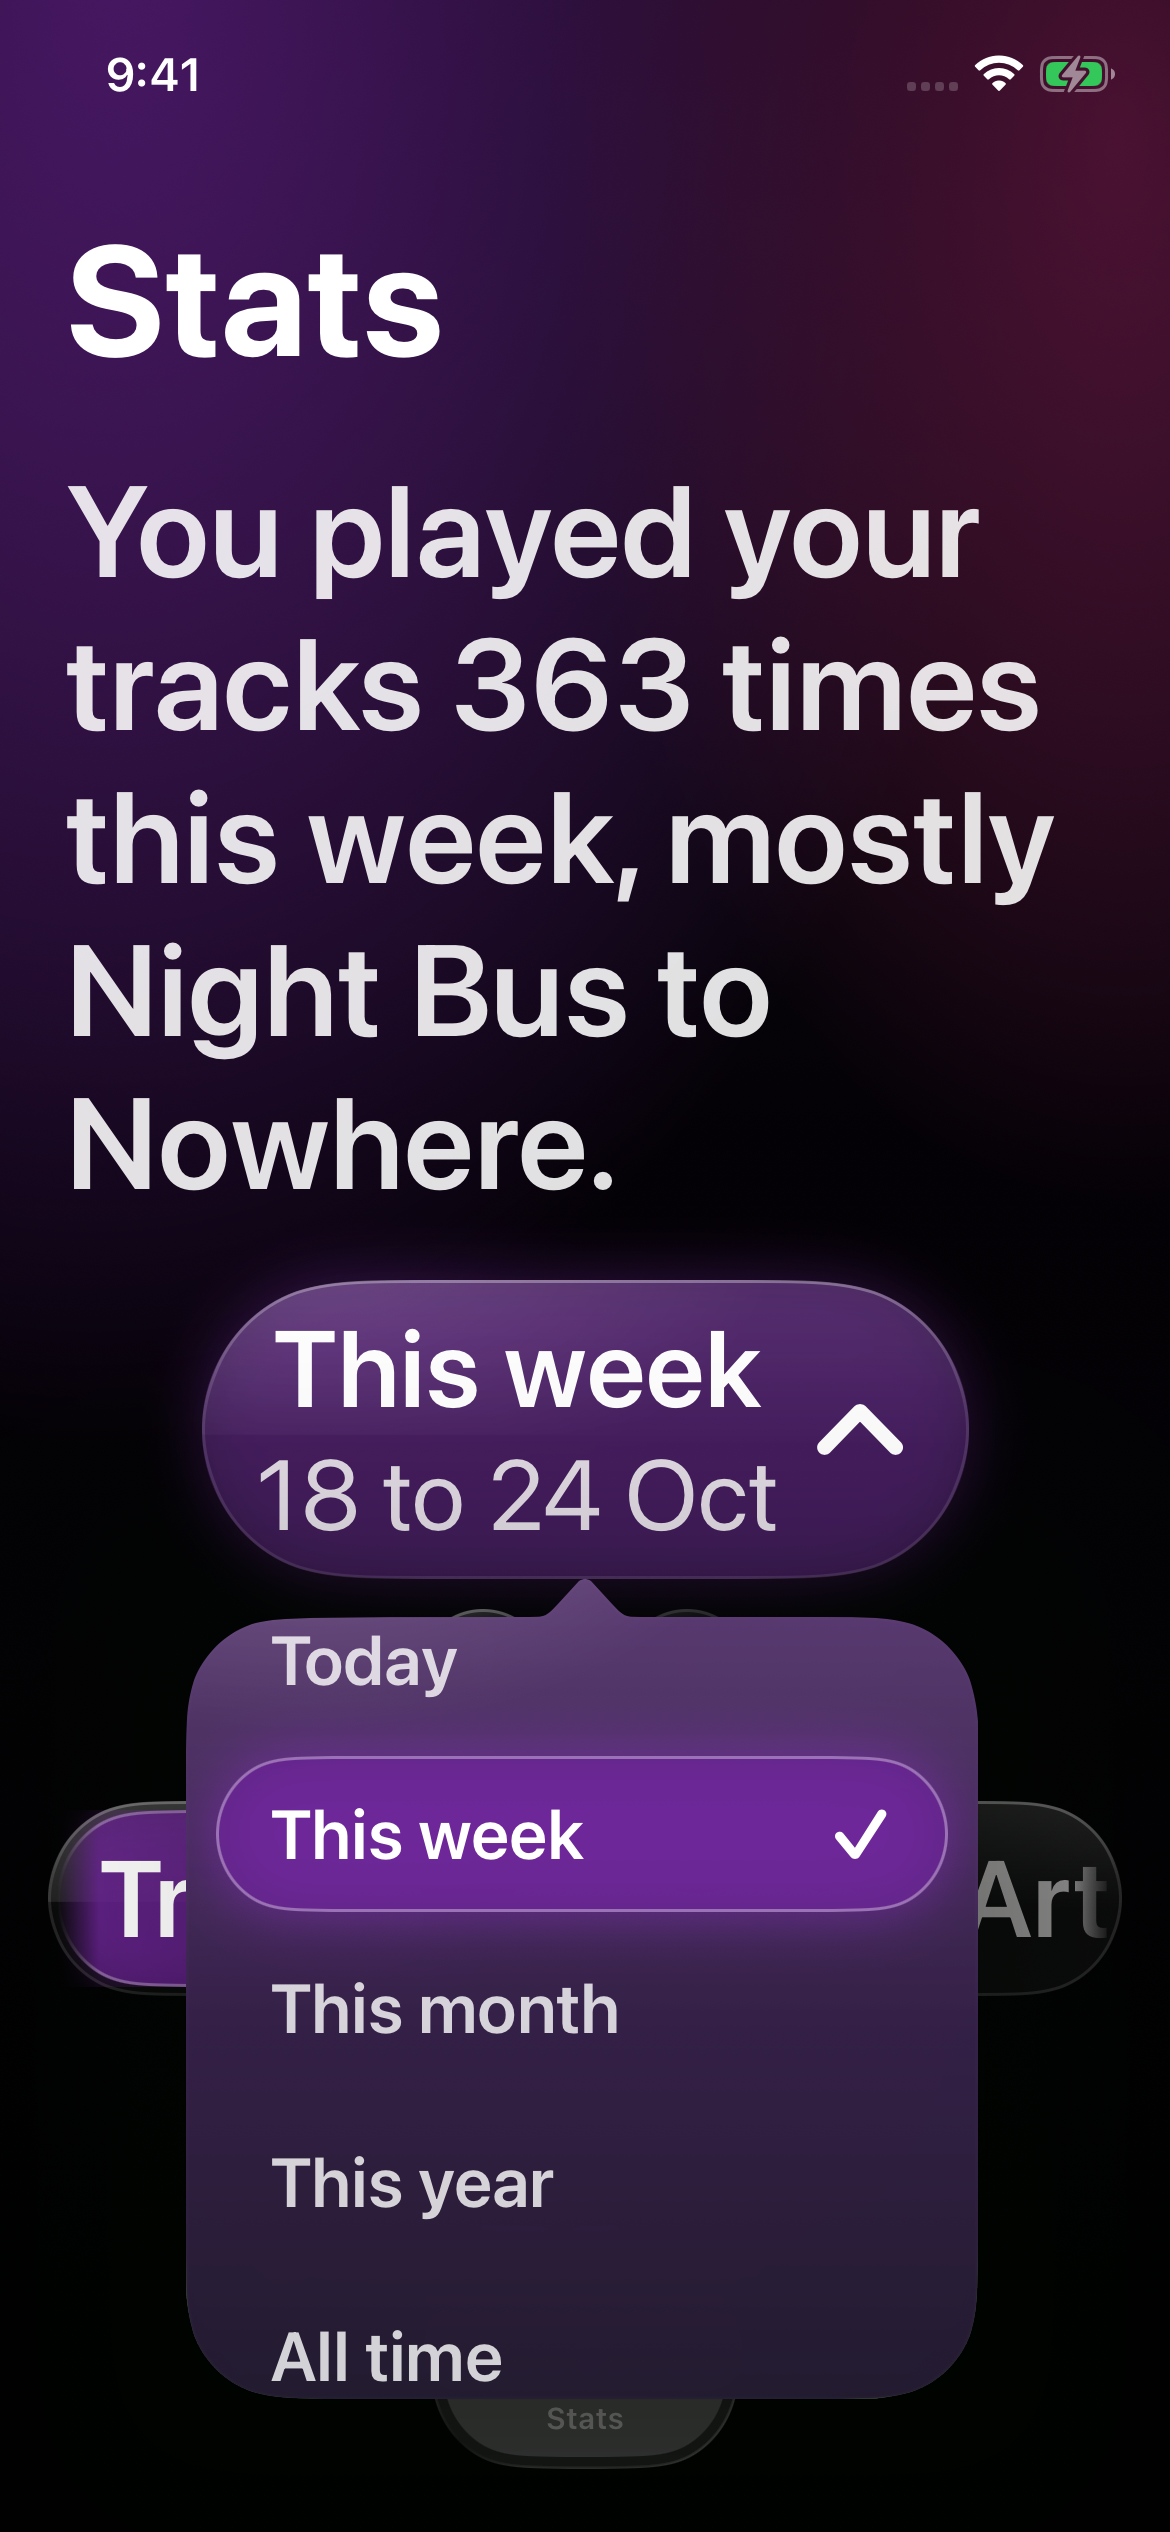
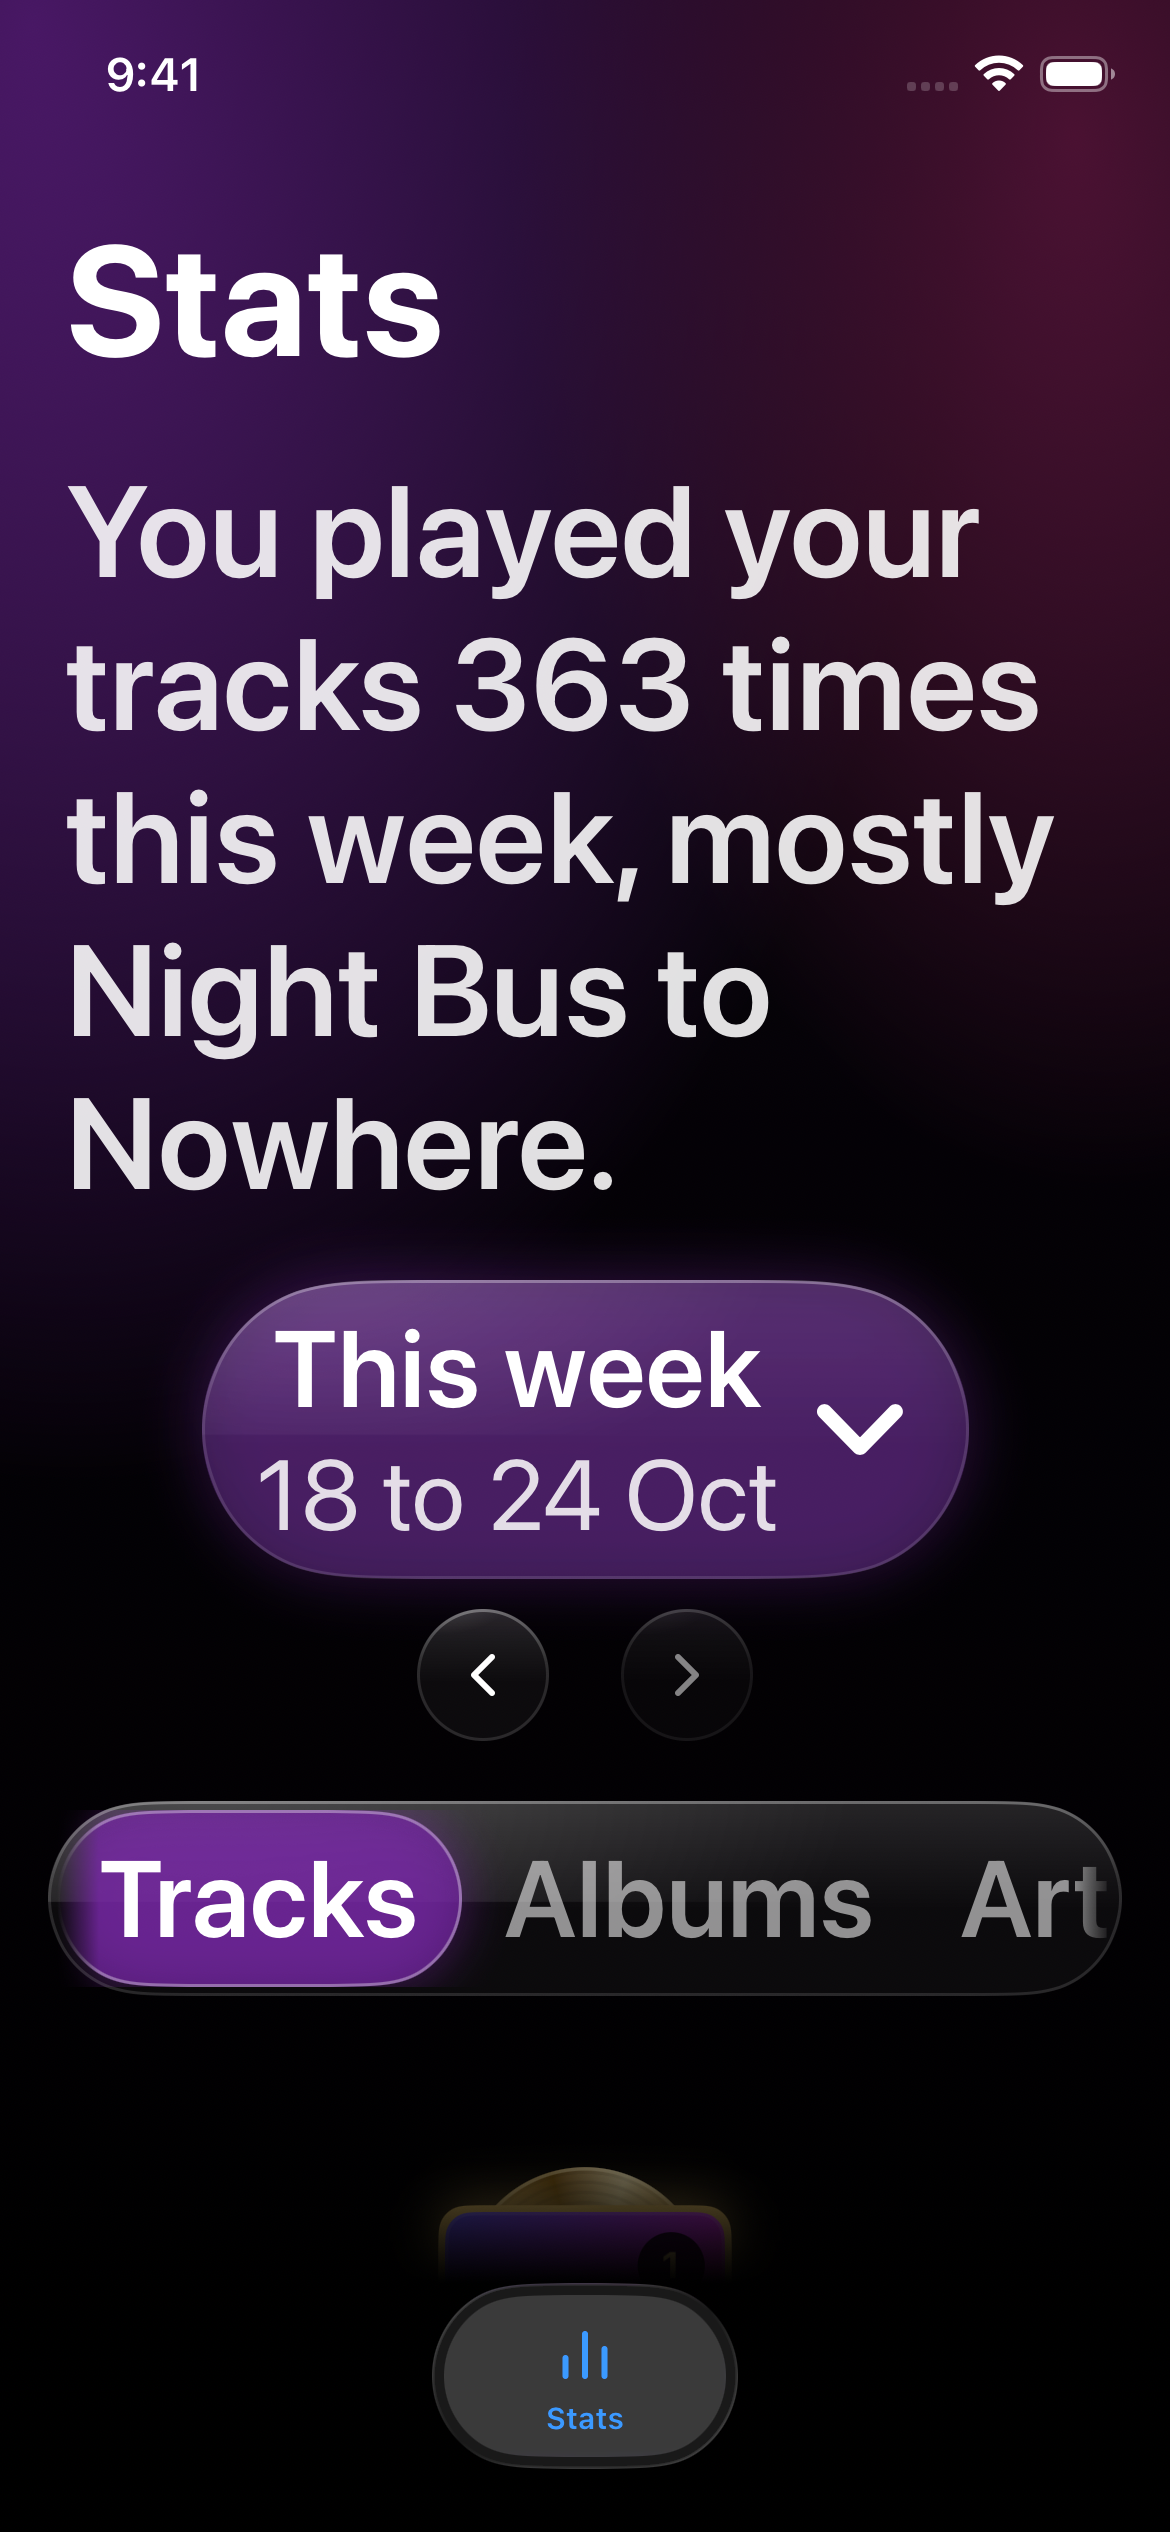
Stats: accessibility-size period sheet; grid follows the sort and shows minutes (#367)
Claude-Session: https://claude.ai/code/session_01NeXGzQ5gYG6DzPD3bPBBBq

Changed region(s): [[0.0923, 0.624, 0.8923, 0.9672], [0.7077, 0.5304, 0.7692, 0.5928], [0.8923, 0.0, 0.9538, 0.0312]]

diff --git a/apps/ios/Locally/Views/Stats/StatsPeriodPill.swift b/apps/ios/Locally/Views/Stats/StatsPeriodPill.swift
@@ -12,7 +12,7 @@ struct StatsPeriodPill: View {
     let onSelect: (StatsPeriodKind) -> Void
 
     @Environment(\.accessibilityReduceMotion) private var reduceMotion
-    /// A pop-up is its own hierarchy: it takes the page's text size, held at the largest non-accessibility size so the five rows fit the screen.
+    /// From the accessibility sizes up the choices open as a sheet, not the popover.
     @Environment(\.dynamicTypeSize) private var typeSize
 
 
@@ -58,15 +58,57 @@ struct StatsPeriodPill: View {
         .accessibilityElement(children: .ignore)
         .accessibilityLabel("\(Copy.Stats.periodPillLabel), \(title), \(detail)")
         .accessibilityAddTraits(.isButton)
-        .popover(isPresented: $isPresented, attachmentAnchor: .rect(.bounds), arrowEdge: .top) {
-            StatsPeriodPopup(current: current, tint: tint) { kind in
-                withAnimation(reduceMotion ? nil : Theme.StatsPopup.ease) { isPresented = false }
-                onSelect(kind)
-            }
-            .dynamicTypeSize(min(typeSize, .xxxLarge))
-            .presentationCompactAdaptation(.popover)
-            .presentationBackground { StatsPopupBackground(tint: tint) }
+        .popover(isPresented: typeSize.isAccessibilitySize ? .constant(false) : $isPresented, attachmentAnchor: .rect(.bounds), arrowEdge: .top) {
+            StatsPeriodPopup(current: current, tint: tint) { choose($0) }
+                .presentationCompactAdaptation(.popover)
+                .presentationBackground { StatsPopupBackground(tint: tint) }
         }
+        .sheet(isPresented: typeSize.isAccessibilitySize ? $isPresented : .constant(false)) {
+            StatsPeriodSheet(current: current, tint: tint, onClose: { isPresented = false }) { choose($0) }
+                .presentationDetents([.medium, .large])
+                .presentationBackground { StatsPopupBackground(tint: tint) }
+        }
+    }
+
+    private func choose(_ kind: StatsPeriodKind) {
+        withAnimation(reduceMotion ? nil : Theme.StatsPopup.ease) { isPresented = false }
+        onSelect(kind)
+    }
+}
+
+/// At accessibility text sizes the choices open as a sheet: the same large glass rows, scrollable.
+struct StatsPeriodSheet: View {
+    let current: StatsPeriodKind
+    let tint: Color
+    let onClose: () -> Void
+    let onSelect: (StatsPeriodKind) -> Void
+
+    var body: some View {
+        ScrollView {
+            VStack(spacing: 6) {
+                ForEach(Copy.Stats.periodOptions, id: \.kind) { option in
+                    StatsPeriodRow(label: option.label, chosen: option.kind == current, tint: tint) { onSelect(option.kind) }
+                }
+            }
+            .padding(.horizontal, 16)
+            .padding(.top, 56)
+            .padding(.bottom, 24)
+        }
+        .overlay(alignment: .topTrailing) {
+            Button(action: onClose) {
+                Image(systemName: "xmark")
+                    .font(.system(.title3, weight: .bold))
+                    .foregroundStyle(Color.red)
+                    .frame(width: Theme.Stats.minTarget, height: Theme.Stats.minTarget)
+                    .contentShape(Rectangle())
+            }
+            .buttonStyle(.plain)
+            .accessibilityLabel("Close")
+            .padding(8)
+        }
+        .accessibilityElement(children: .contain)
+        .accessibilityLabel(Copy.Stats.periodPopupLabel)
+        .sensoryFeedback(.selection, trigger: current)
     }
 }
 

diff --git a/apps/ios/Locally/Views/Stats/StatsRows.swift b/apps/ios/Locally/Views/Stats/StatsRows.swift
@@ -159,6 +159,7 @@ private struct StatsRow: View {
 /// the columns come from the room it has, so a tile is never under 72 pt.
 struct StatsSea: View {
     let items: [StatItem]
+    var sort: StatsSort = .plays
     /// The room the grid has.
     let width: CGFloat
     let round: Bool
@@ -188,7 +189,7 @@ struct StatsSea: View {
                     alignment: .leading, spacing: Theme.Stats.tileRowGap
                 ) {
                     ForEach(group) { item in
-                        StatsTile(item: item, tier: tier, round: round, owner: ownerOf(item), cache: cache) { onOpen(item) }
+                        StatsTile(item: item, tier: tier, round: round, sort: sort, owner: ownerOf(item), cache: cache) { onOpen(item) }
                     }
                 }
             }
@@ -202,11 +203,17 @@ private struct StatsTile: View {
     let item: StatItem
     let tier: Int
     let round: Bool
+    var sort: StatsSort = .plays
     let owner: UUID?
     let cache: StatsCoverCache
     let action: () -> Void
 
     @Environment(\.dynamicTypeSize) private var typeSize
+
+    /// Minutes under the minutes sort, plays otherwise; the same text is spoken.
+    private var figure: String {
+        sort == .minutes || tier != 2 ? Copy.Stats.figure(item, sort: sort) : Copy.Stats.formatCount(item.plays)
+    }
 
     private var nameFont: Font {
         tier == 0 ? .system(.footnote, weight: .semibold) : .system(.caption, weight: .semibold)
@@ -218,7 +225,7 @@ private struct StatsTile: View {
                 StatsCoverView(owner: owner, cache: cache, round: round, cornerRadius: 4)
                     .aspectRatio(1, contentMode: .fit)
                     .overlay { chip("\(item.rank)", corner: .topLeading) }
-                    .overlay { chip(tier == 2 ? Copy.Stats.formatCount(item.plays) : Copy.Stats.playsCount(item.plays), corner: .bottomTrailing) }
+                    .overlay { chip(figure, corner: .bottomTrailing) }
                     .shadow(color: .black.opacity(0.55), radius: 8, y: 6)
                 VStack(alignment: .leading, spacing: 1) {
                     Text(item.title)
@@ -238,7 +245,7 @@ private struct StatsTile: View {
         }
         .buttonStyle(.plain)
         .accessibilityElement(children: .ignore)
-        .accessibilityLabel("\(Copy.Stats.itemLabel(rank: item.rank, title: item.title, plays: item.plays)), \(item.subtitle)")
+        .accessibilityLabel("\(item.rank), \(item.title), \(Copy.Stats.figure(item, sort: sort)), \(item.subtitle)")
     }
 
     /// The rank or the plays over a cover: white on a dark pill. On a round cover the chips sit

diff --git a/apps/ios/Locally/Views/Components/StatsPopupGallery.swift b/apps/ios/Locally/Views/Components/StatsPopupGallery.swift
@@ -4,30 +4,31 @@ import SwiftUI
 /// #367: the Stats page with the period pill closed and open, and the minutes sort, over the
 /// same sample plays as `StatsGallery`.
 enum StatsPopupGallery {
-    static let names = ["stats-period-closed", "stats-period-open", "stats-sort-minutes", "stats-period-ax3"]
+    static let names = ["stats-period-closed", "stats-period-open", "stats-sort-minutes", "stats-period-ax3", "stats-period-sheet-ax5", "stats-grid-minutes"]
 
     @MainActor
     static func page(_ name: String) -> some View {
-        let open = name == "stats-period-open" || name == "stats-period-ax3"
-        let minutes = name == "stats-sort-minutes"
+        let open = name == "stats-period-open" || name == "stats-period-sheet-ax5"
+        let minutes = name == "stats-sort-minutes" || name == "stats-grid-minutes"
         return TabView {
-            view(open: open, minutes: minutes)
+            view(open: open, minutes: minutes, grid: name == "stats-grid-minutes")
                 .tabItem { Label(Copy.Stats.tabLabel, image: "Icon/Stats") }
         }
         .tint(Theme.accent)
         .environment(FolderStatus(isConnected: true))
         .environment(PurchaseStatus(isFullUnlocked: false))
         .environment(SyncStatus())
-        .dynamicTypeSize(name == "stats-period-ax3" ? .accessibility3 : .large)
+        .dynamicTypeSize(name == "stats-period-ax3" ? .accessibility3 : (name == "stats-period-sheet-ax5" ? .accessibility5 : .large))
     }
 
     @MainActor
-    private static func view(open: Bool, minutes: Bool) -> some View {
+    private static func view(open: Bool, minutes: Bool, grid: Bool = false) -> some View {
         let suite = "gallery.stats.popup"
         let defaults = UserDefaults(suiteName: suite)!
         defaults.removePersistentDomain(forName: suite)
         defaults.set(StatsPeriodKind.week.rawValue, forKey: StatsViewModel.periodKey)
         if minutes { defaults.set(StatsSort.minutes.rawValue, forKey: StatsViewModel.sortKey) }
+        if grid { defaults.set(StatsLayout.grid.rawValue, forKey: StatsViewModel.layoutKey) }
         let releases = StatsGallery.releases
         let covers = StatsGallery.covers
         var counts: [PlayCount] = []

diff --git a/apps/ios/LocallyTests/StatsViewModelTests.swift b/apps/ios/LocallyTests/StatsViewModelTests.swift
@@ -151,6 +151,21 @@ struct StatsViewModelTests {
         #expect(m.model.listed.map(\.title) == ["Long", "Solo", "Unknown"])
     }
 
+    @Test func gridItemsFollowTheMinutesSortAndTilesSpeakMinutes() async {
+        let long = Track(id: u(21), title: "Long", trackNumber: 1, filePath: "l.mp3", originalName: "l.mp3", durationSec: 300)
+        let album = Release(id: u(3), kind: .single, title: "Mix", artist: "Okoro", coverPath: "/c/3", folderPath: "/lib/3", tracks: [long])
+        let other = Release(id: u(4), kind: .single, title: "Solo", artist: "Okoro", coverPath: "/c/4", folderPath: "/lib/4", tracks: [track(13, "Solo")])
+        let counts = [count(3, 21, 4), count(4, 13, 2)]
+        let m = make(summary(tracks: counts, allTime: counts), library: [album, other])
+        await m.model.read()
+        m.model.selectLayout(.grid)
+        m.model.selectSort(.minutes)
+        let first = m.model.listed.first
+        #expect(first?.title == "Long")
+        #expect(first.map { Copy.Stats.figure($0, sort: .minutes) } == "20 min")
+        #expect(first.map { Copy.Stats.figure($0, sort: .plays) } == Copy.Stats.playsCount(4))
+    }
+
     @Test func minutesSortIsRemembered() {
         let m = make(.failed)
         m.model.selectSort(.minutes)

diff --git a/apps/ios/Locally/Views/Stats/StatsView.swift b/apps/ios/Locally/Views/Stats/StatsView.swift
@@ -391,9 +391,9 @@ struct StatsView: View {
                     )
                 } else {
                     StatsSea(
-                        items: items, width: room, round: model.tab == .artists, cache: cache,
+                        items: model.listed, sort: model.sort, width: room, round: model.tab == .artists, cache: cache,
                         ownerOf: { model.coverOwner(of: $0) },
-                        label: "\(Copy.Stats.yourHeading(noun)), in rank order", onOpen: open
+                        label: "\(Copy.Stats.yourHeading(noun)), \(sortPhrase)", onOpen: open
                     )
                 }
             }
@@ -422,12 +422,12 @@ struct StatsView: View {
     private var listControls: some View {
         ViewThatFits(in: .horizontal) {
             HStack(spacing: 12) {
-                if model.layout == .list { sortMenu }
+                sortMenu
                 Spacer(minLength: 0)
                 layoutPill
             }
             VStack(alignment: .leading, spacing: 12) {
-                if model.layout == .list { sortMenu }
+                sortMenu
                 layoutPill
             }
         }
